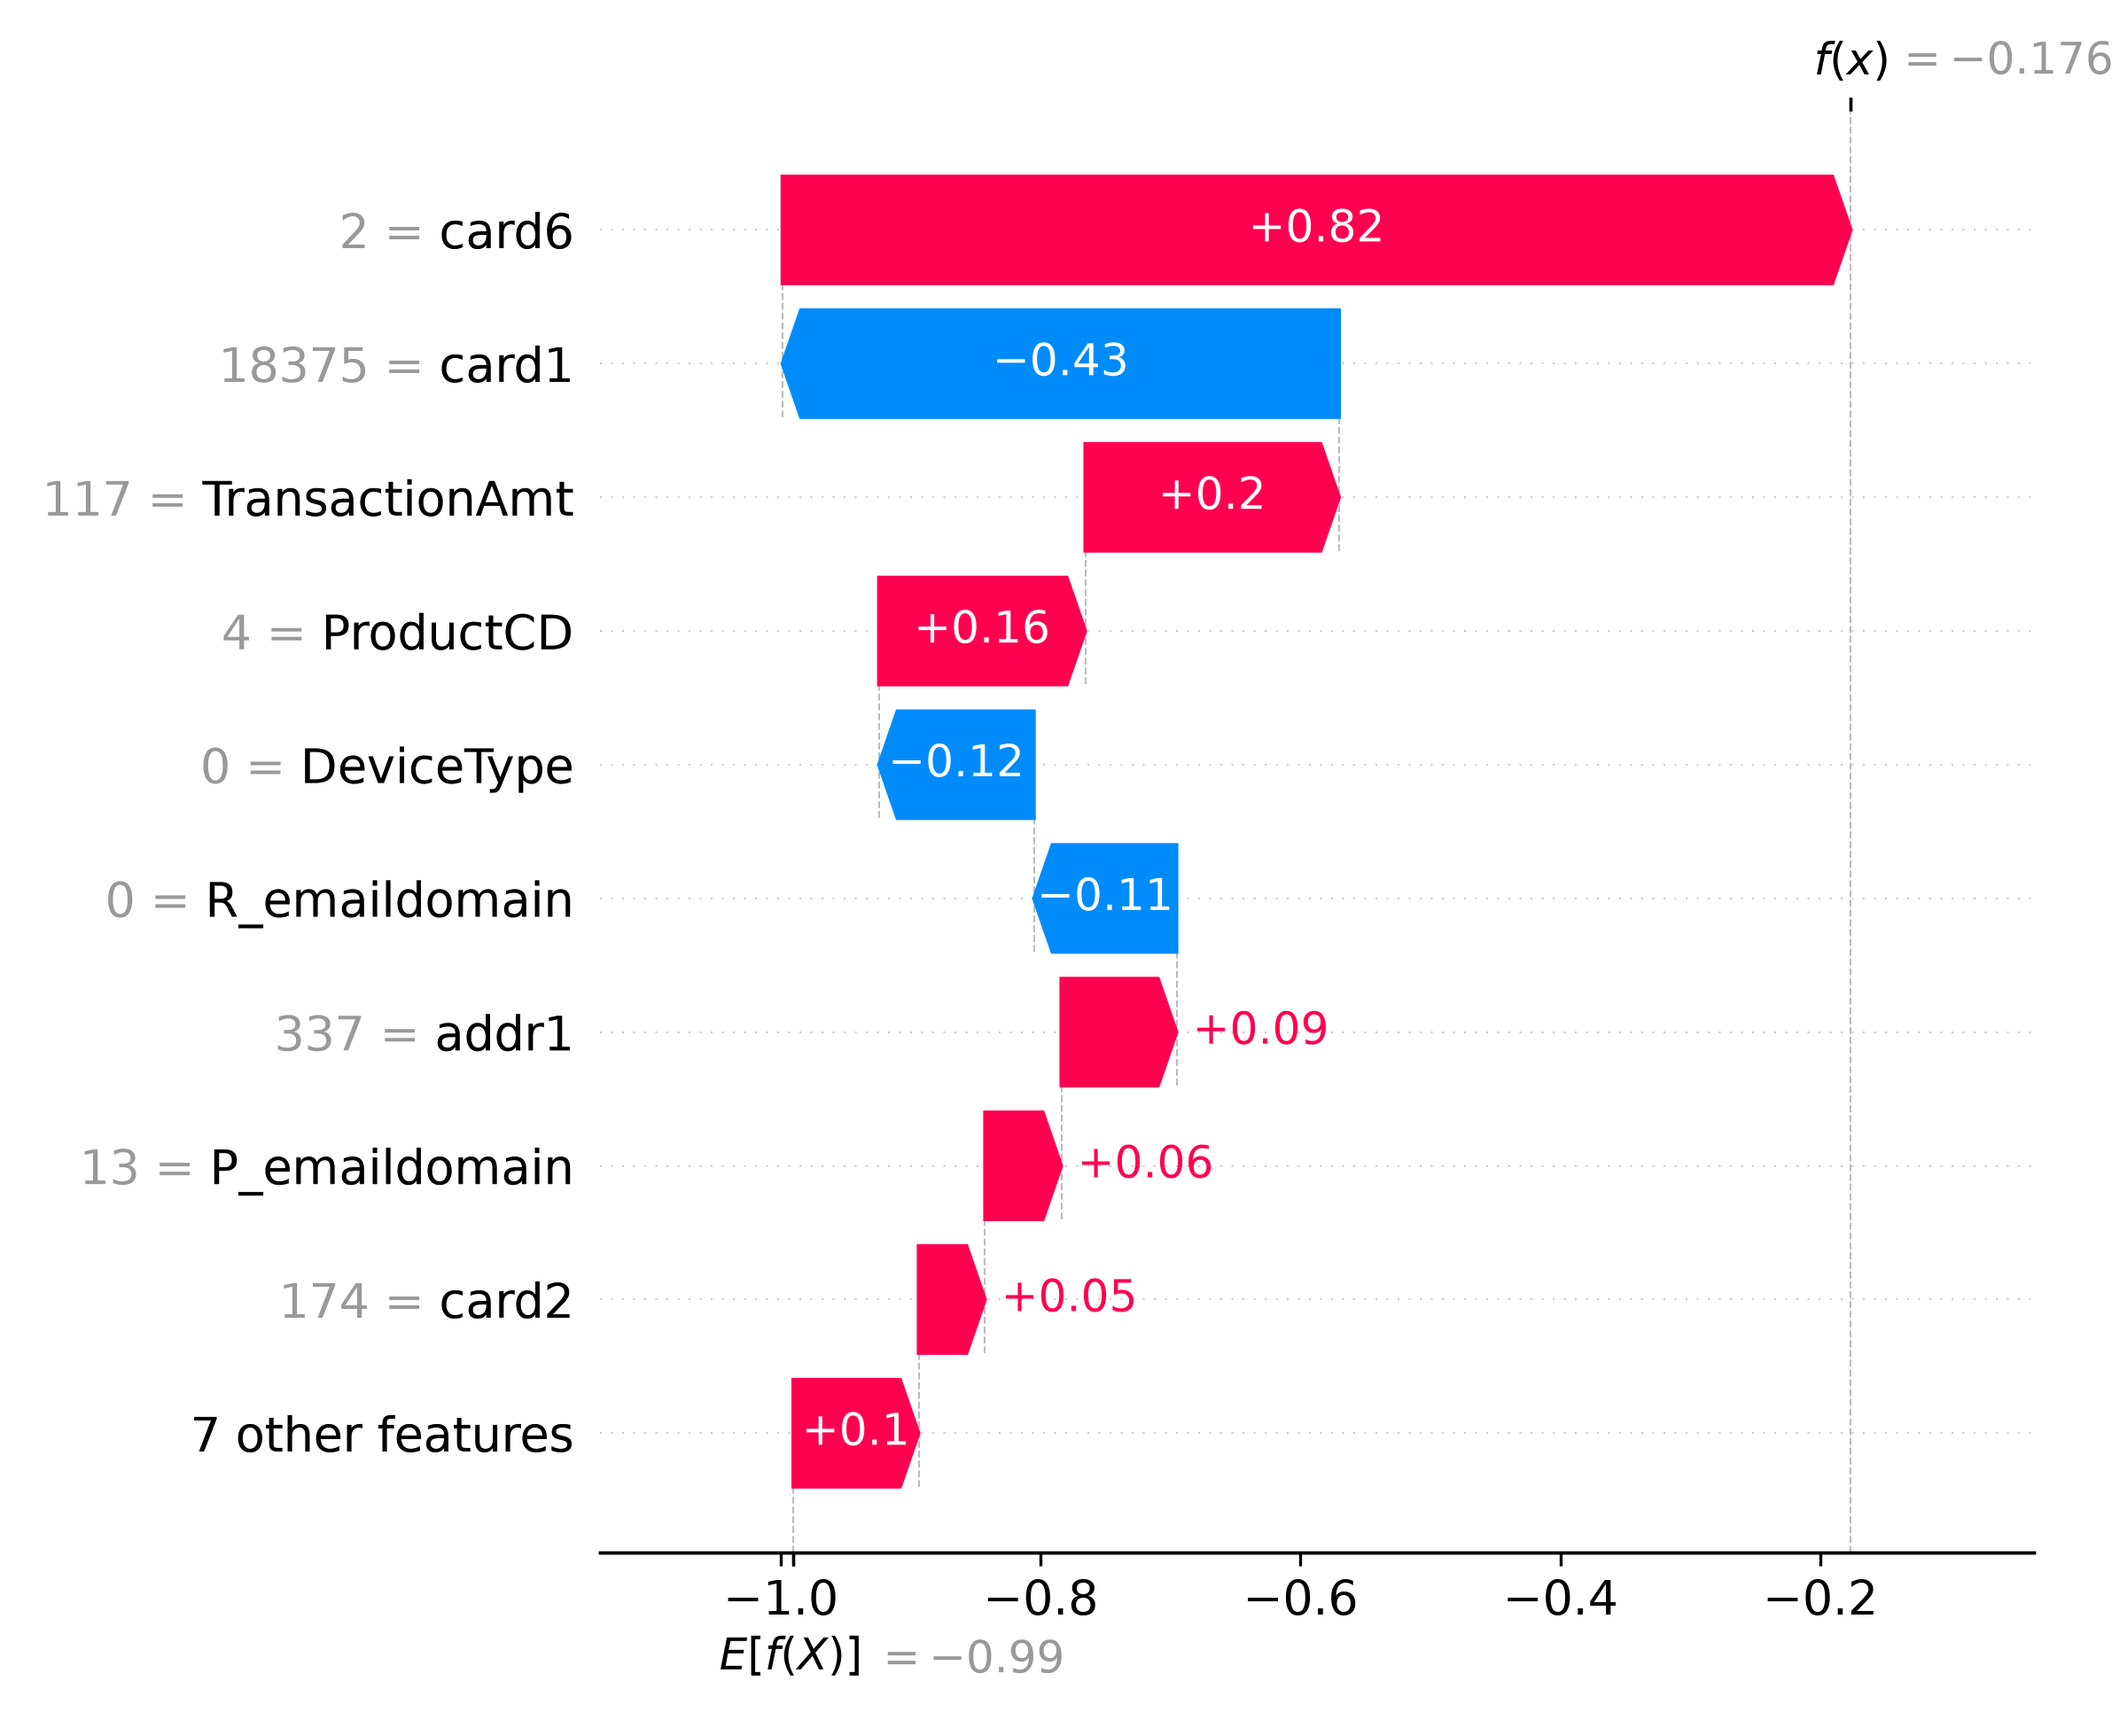
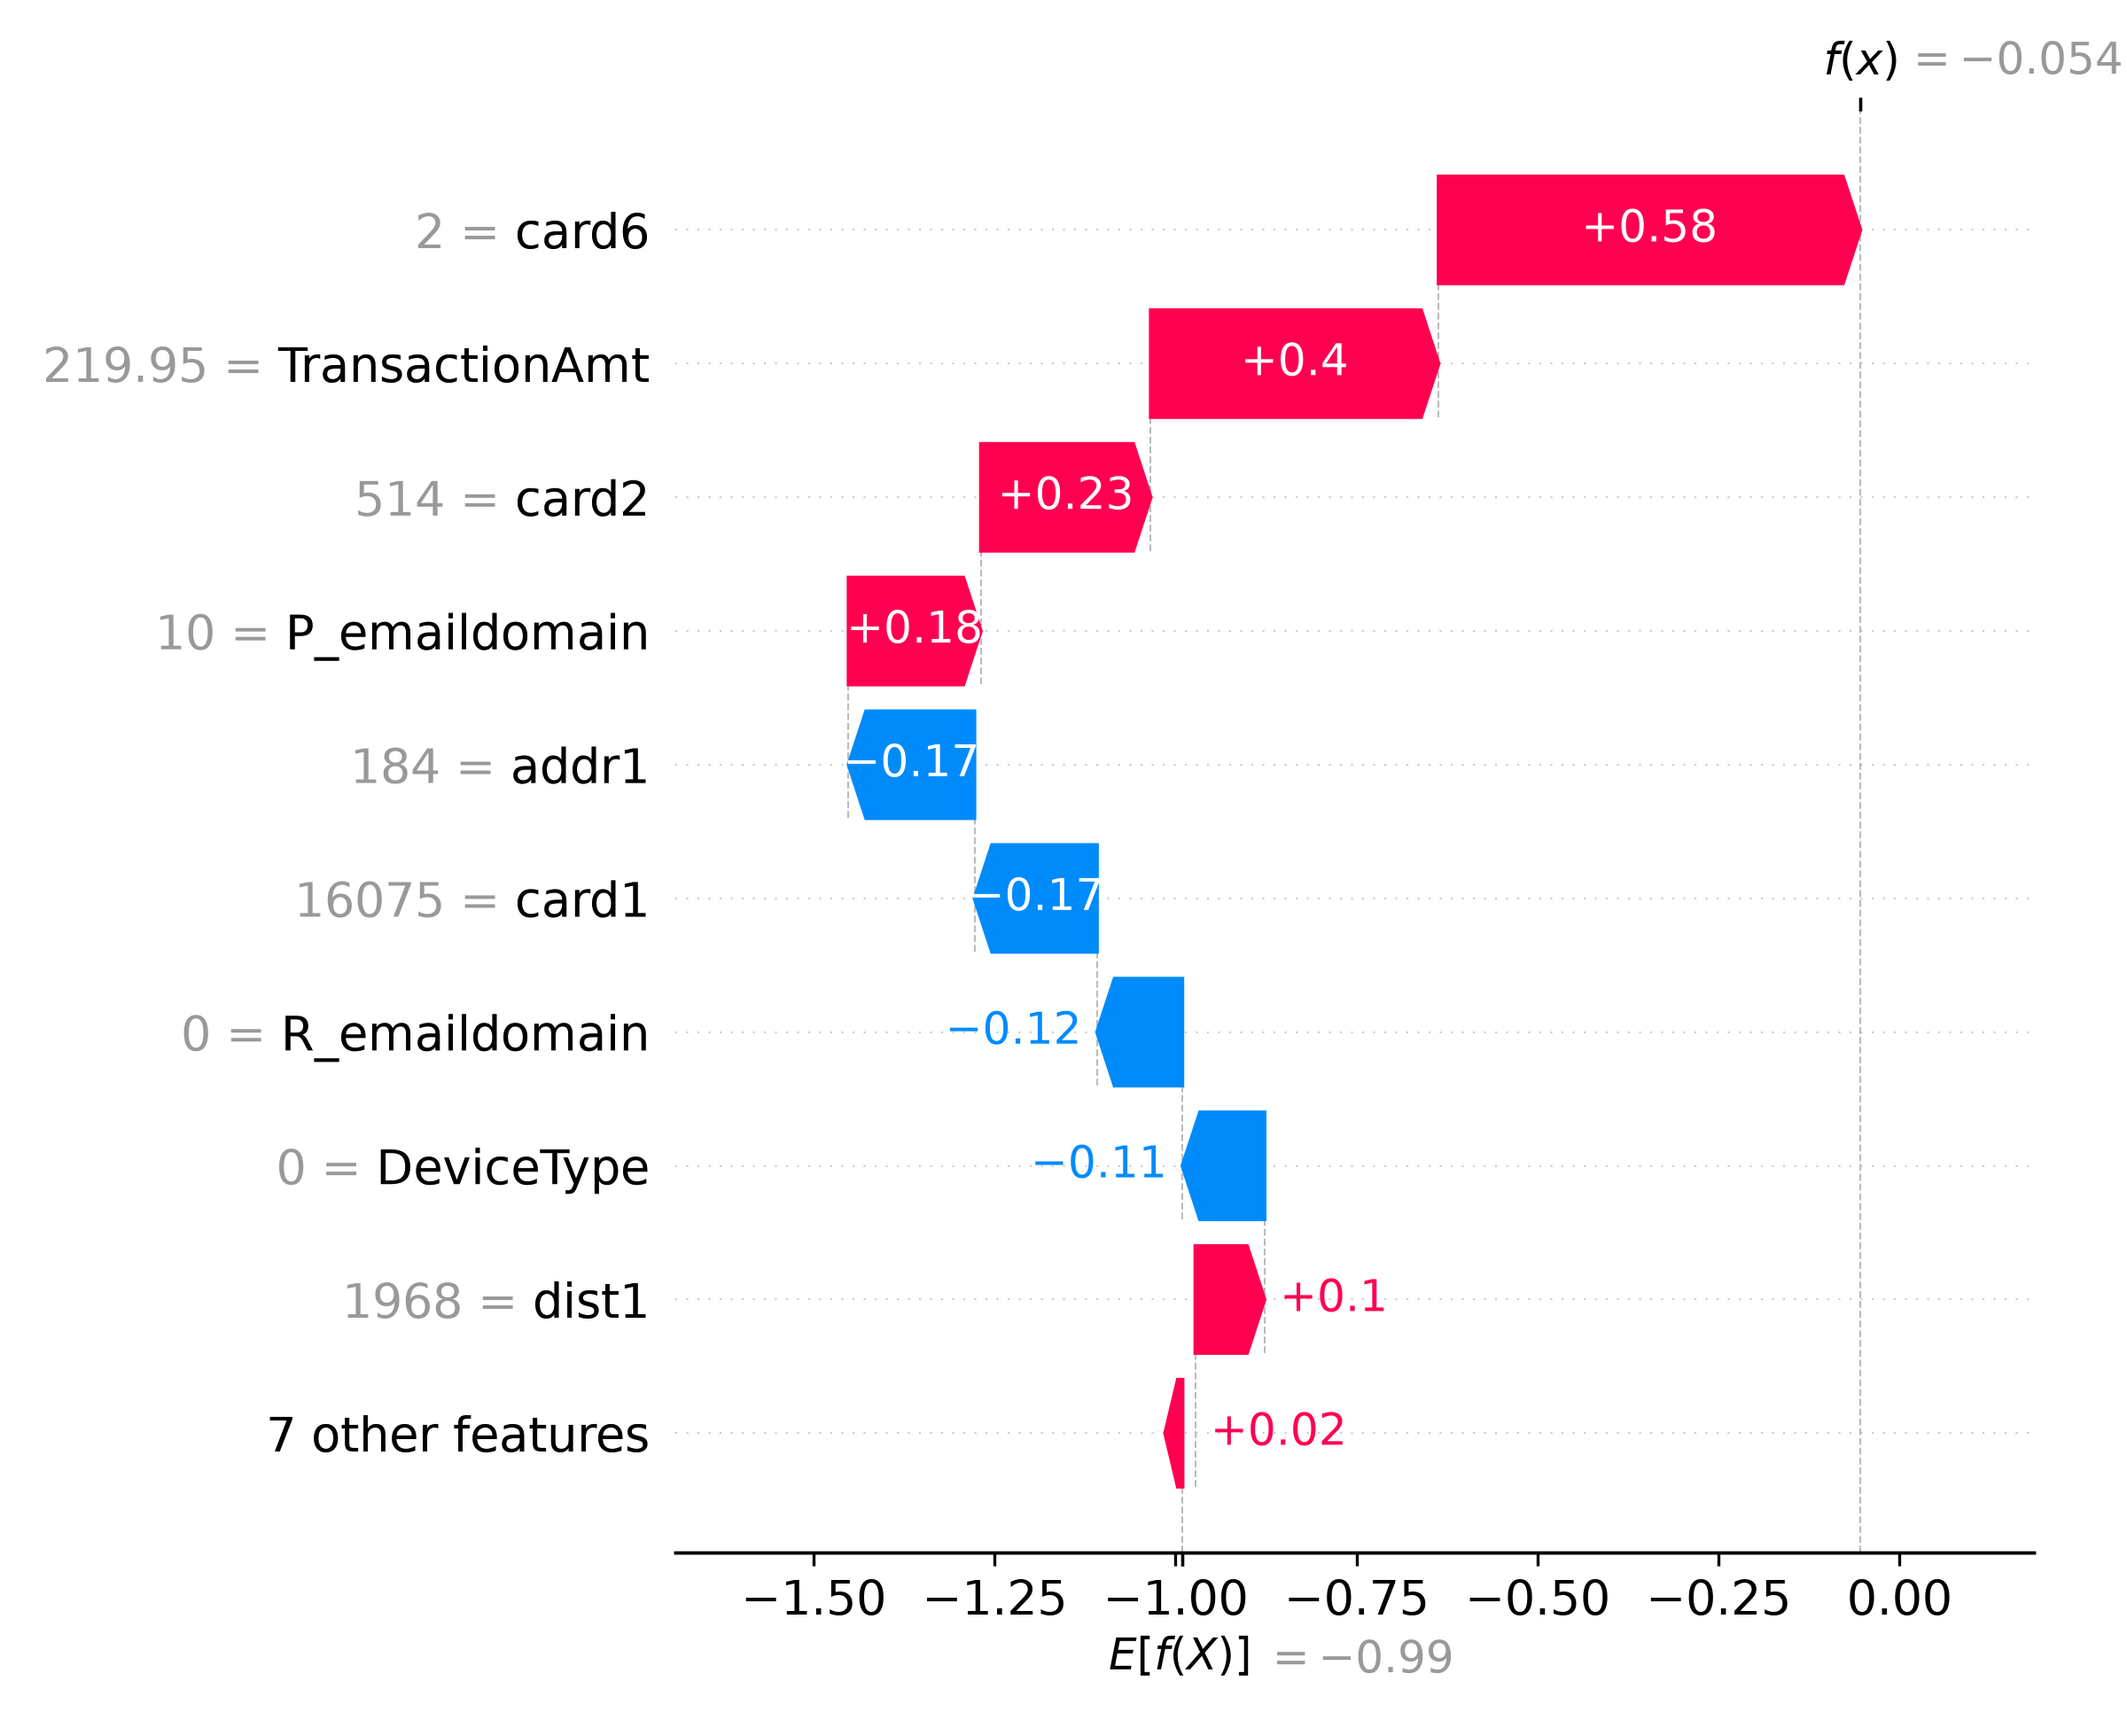
Finalize README, architecture diagram, and determinism fixes

diff --git a/src/explain.py b/src/explain.py
@@ -142,7 +142,6 @@ def extract_global_importance(model, X_test: pd.DataFrame):
 def isolate_failure_case(model, X_test: pd.DataFrame, y_test: pd.Series):
     """
     Hunts for a 'reasonable' False Positive in the ESCALATE queue.
-    Avoids picking the exact boundary line or the very first array element.
     """
     logger.info("Hunting for a deliberate False Positive in the ESCALATE gray-zone...")
     probs = model.predict_proba(X_test)[:, 1]
@@ -156,8 +155,12 @@ def isolate_failure_case(model, X_test: pd.DataFrame, y_test: pd.Series):
         fp_mask = (y_test == 0) & (probs >= 0.35) & (probs <= 0.55)
         fp_indices = np.where(fp_mask)[0]
         
-    # Pick a row from the absolute middle of the available matches to ensure it is deliberate
-    target_idx = fp_indices[len(fp_indices) // 2]
+    # FIX: Sort the indices to guarantee array order, then use a hard-coded seed 
+    # to select the exact same transaction every single time the script runs.
+    fp_indices_sorted = np.sort(fp_indices)
+    np.random.seed(42)
+    target_idx = np.random.choice(fp_indices_sorted)
+    
     X_fail = X_test.iloc[target_idx]
     score = probs[target_idx]
     

diff --git a/src/train.py b/src/train.py
@@ -60,7 +60,8 @@ def train_model(X_train: pd.DataFrame, y_train: pd.Series) -> LGBMClassifier:
     lgbm = LGBMClassifier(
         scale_pos_weight=imbalance_ratio,
         random_state=42,
-        n_jobs=-1
+        deterministic=True,
+        n_jobs=1  # Forces single-threaded execution to prevent floating-point variances
     )
 
     # Lightweight grid for Buildathon time constraints

diff --git a/README.md b/README.md
@@ -35,7 +35,7 @@ AI systems will inevitably fail. FraudSentinel is evaluated not just on its hits
 * **True Label:** Legitimate Customer (0)
 * **Model Score:** 0.4865 (Suspicious)
 * **Action Taken:** `ESCALATE` (Routed to human, not blocked)
-* **SHAP Audit Explanation:** *Flagged primarily due to: recent velocity of transactions [3.15] (+0.42 risk impact), device signature [Unknown_Code] (+0.14 risk impact), billing region code [214.0] (+0.12 risk impact).*
+* **SHAP Audit Explanation:** *Flagged primarily due to: card type (Credit/Debit) [credit] (+0.58 risk impact), transaction amount [219.95] (+0.40 risk impact), card issuing bank [514.0] (+0.23 risk impact).*
 
 **Defensibility:** The LightGBM model reasonably suspected this transaction because it exhibited a sudden velocity spike from an unrecognized device—a classic signature of a script attack. However, because the score fell into our `ESCALATE` buffer (0.35 - 0.55), the system did not automatically block the user. It queued the transaction for human review with the SHAP explanation attached, allowing an analyst to safely verify the edge-case without causing automated merchant friction.
 
@@ -51,3 +51,15 @@ cd FraudSentinel
 python3 -m venv venv
 source venv/bin/activate
 pip install -r requirements.txt
+
+**2. Run the Pipeline**
+```bash
+python src/preprocessing.py
+python src/train.py
+python src/decision_layer.py
+python src/explain.py
+```
+
+## Known Limitations & Next Steps
+- LightGBM's multi-threaded training introduces minor run-to-run non-determinism near the decision boundary, even with a fixed random seed. Pinning `deterministic=True` and single-threaded training (`n_jobs=1`) would resolve this given more time.
+- Given more time: streaming feature computation for real-time velocity scoring, probability calibration (e.g. isotonic regression) to tighten the cost-weighted threshold analysis, and richer categorical embeddings in place of ordinal encoding.
